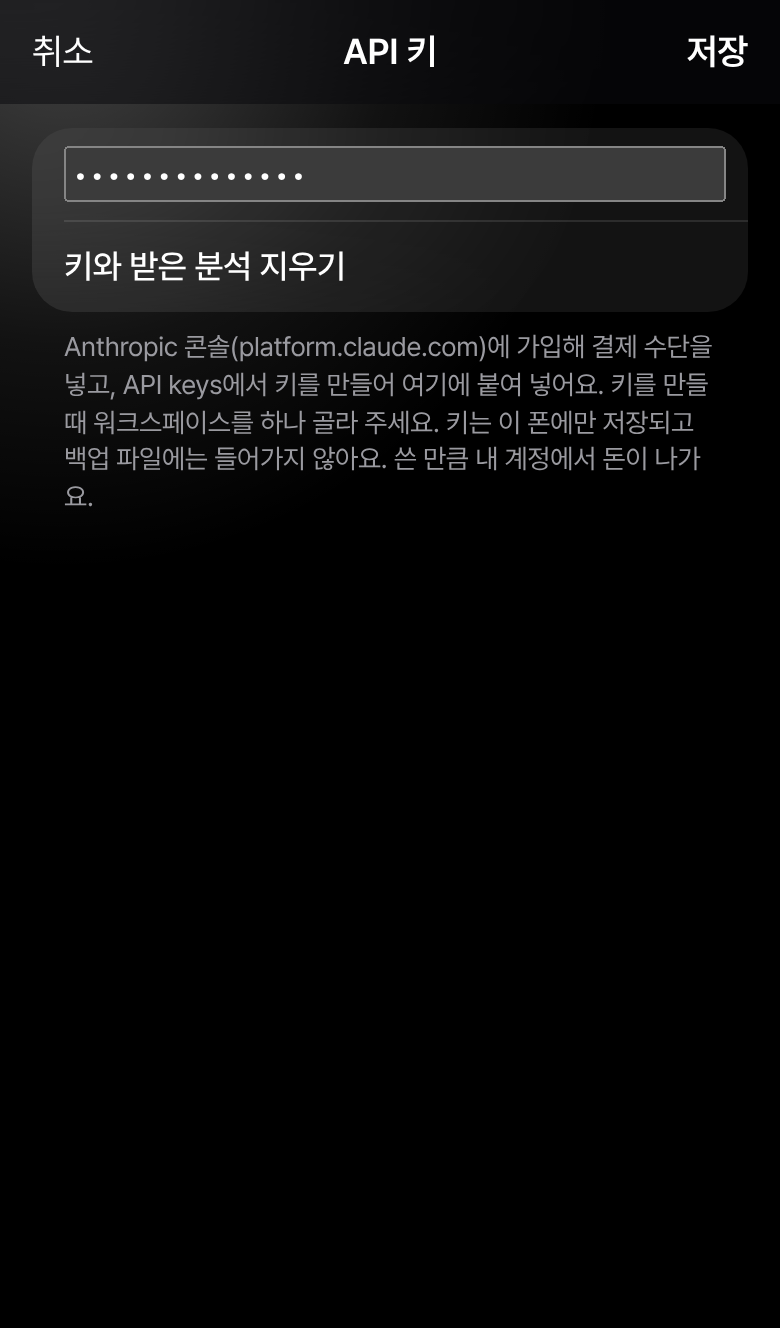
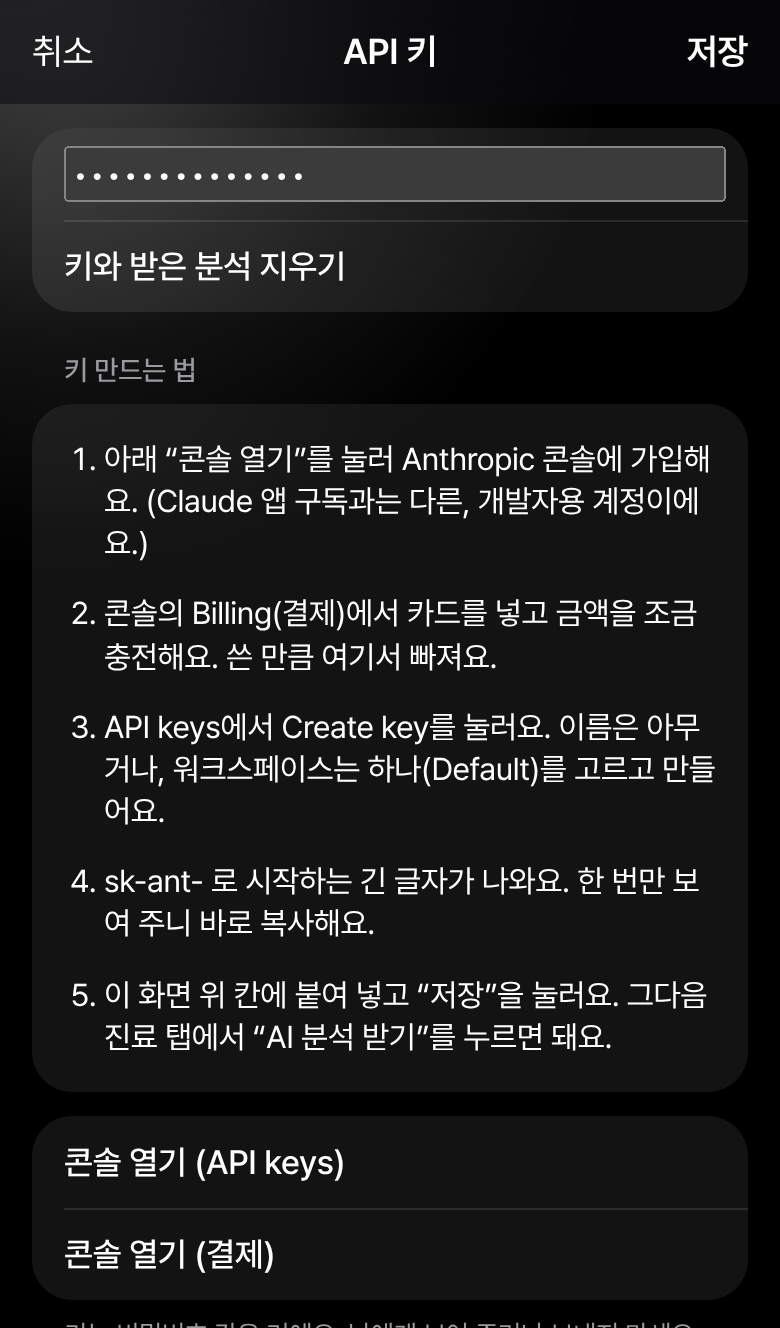
API 키 화면에 키 만드는 법을 순서대로 적고 콘솔로 가는 줄을 둠 (v112)
비개발자가 키를 어디서 어떻게 만드는지 알 수 없어서, 다섯 단계와
콘솔의 API keys · 결제 화면으로 바로 가는 줄을 넣었다.

Claude-Session: https://claude.ai/code/session_01Du4KAy7crrN67i73oW7iBF

diff --git a/mood/js/i18n.js b/mood/js/i18n.js
@@ -273,6 +273,15 @@ const DICT = {
   '취소': 'Cancel',
   '완료': 'Done',
   '설정': 'Settings',
+  '키 만드는 법': 'How to get a key',
+  '아래 “콘솔 열기”를 눌러 Anthropic 콘솔에 가입해요. (Claude 앱 구독과는 다른, 개발자용 계정이에요.)': 'Tap “Open Console” below and sign up for the Anthropic Console. (It is a developer account, separate from a Claude app subscription.)',
+  '콘솔의 Billing(결제)에서 카드를 넣고 금액을 조금 충전해요. 쓴 만큼 여기서 빠져요.': 'Under Billing in the Console, add a card and buy a small amount of credit. Usage is deducted from it.',
+  'API keys에서 Create key를 눌러요. 이름은 아무거나, 워크스페이스는 하나(Default)를 고르고 만들어요.': 'Under API keys, tap Create key. Any name works; choose one workspace (Default) and create it.',
+  'sk-ant- 로 시작하는 긴 글자가 나와요. 한 번만 보여 주니 바로 복사해요.': 'A long string starting with sk-ant- appears. It is shown only once, so copy it right away.',
+  '이 화면 위 칸에 붙여 넣고 “저장”을 눌러요. 그다음 진료 탭에서 “AI 분석 받기”를 누르면 돼요.': 'Paste it into the box above and tap “Save”. Then tap “Get AI analysis” on the Visit tab.',
+  '콘솔 열기 (API keys)': 'Open Console (API keys)',
+  '콘솔 열기 (결제)': 'Open Console (Billing)',
+  '키는 비밀번호 같은 거예요. 남에게 보여 주거나 보내지 마세요. 새어 나갔다 싶으면 콘솔에서 그 키를 지우면 돼요.': 'The key is like a password. Do not show or send it to anyone. If you think it leaked, delete that key in the Console.',
   '진료 때 말할 것에 더하기': 'Add to things to say',
   '진료 때 말할 것에 더했어요': 'Added to things to say',
   'AI가 근거로 단 자료': 'Sources the AI cited',
@@ -291,7 +300,6 @@ const DICT = {
   'AI는 의사가 아니에요. 정신과 진료 지식을 바탕으로 읽으라고 시켰을 뿐이라, 풀이는 진단이 아니고 틀릴 수 있어요. 진료 때 이야기할 거리로 써 주세요.': 'The AI is not a doctor. It was only told to read with psychiatric knowledge, so the reading is not a diagnosis and can be wrong. Use it as something to discuss at your appointment.',
   'API 키': 'API key',
   '키와 받은 분석 지우기': 'Remove the key and the saved analysis',
-  'Anthropic 콘솔(platform.claude.com)에 가입해 결제 수단을 넣고, API keys에서 키를 만들어 여기에 붙여 넣어요. 키를 만들 때 워크스페이스를 하나 골라 주세요.': 'Sign up at the Anthropic Console (platform.claude.com), add a payment method, create a key under API keys and paste it here. Pick one workspace when you create the key.',
   '키는 이 폰에만 저장되고 백업 파일에는 들어가지 않아요. 쓴 만큼 내 계정에서 돈이 나가요.': 'The key is stored only on this phone and is not included in backups. Usage is billed to your account.',
   '이 API 계정은 앱에서 바로 부를 수 없게 설정돼 있어요 (조직 설정).': 'This API account is set to block direct calls from apps (organization setting).',
   'API 키가 맞지 않아요. 키를 다시 확인해 주세요.': 'The API key is not valid. Please check it.',

diff --git a/mood/js/views/clinic.js b/mood/js/views/clinic.js
@@ -190,7 +190,19 @@ export function openAiKey() {
       <div class="li"><input type="password" id="ai-key" placeholder="sk-ant-…" autocomplete="off" autocapitalize="off" spellcheck="false" value="${esc(aiKey())}"></div>
       ${has ? `<button class="li add" data-act="aiKeyDel">${T('키와 받은 분석 지우기')}</button>` : ''}
     </section>
-    <p class="secnote">${T('Anthropic 콘솔(platform.claude.com)에 가입해 결제 수단을 넣고, API keys에서 키를 만들어 여기에 붙여 넣어요. 키를 만들 때 워크스페이스를 하나 골라 주세요.')}
+    <div class="sec">${T('키 만드는 법')}</div>
+    <section class="card"><ol class="steps">
+      <li>${T('아래 “콘솔 열기”를 눌러 Anthropic 콘솔에 가입해요. (Claude 앱 구독과는 다른, 개발자용 계정이에요.)')}</li>
+      <li>${T('콘솔의 Billing(결제)에서 카드를 넣고 금액을 조금 충전해요. 쓴 만큼 여기서 빠져요.')}</li>
+      <li>${T('API keys에서 Create key를 눌러요. 이름은 아무거나, 워크스페이스는 하나(Default)를 고르고 만들어요.')}</li>
+      <li>${T('sk-ant- 로 시작하는 긴 글자가 나와요. 한 번만 보여 주니 바로 복사해요.')}</li>
+      <li>${T('이 화면 위 칸에 붙여 넣고 “저장”을 눌러요. 그다음 진료 탭에서 “AI 분석 받기”를 누르면 돼요.')}</li>
+    </ol></section>
+    <section class="card list">
+      <a class="li add" href="https://platform.claude.com/settings/keys" target="_blank" rel="noopener noreferrer">${T('콘솔 열기 (API keys)')}</a>
+      <a class="li add" href="https://platform.claude.com/settings/billing" target="_blank" rel="noopener noreferrer">${T('콘솔 열기 (결제)')}</a>
+    </section>
+    <p class="secnote">${T('키는 비밀번호 같은 거예요. 남에게 보여 주거나 보내지 마세요. 새어 나갔다 싶으면 콘솔에서 그 키를 지우면 돼요.')}
       ${T('키는 이 폰에만 저장되고 백업 파일에는 들어가지 않아요. 쓴 만큼 내 계정에서 돈이 나가요.')}</p>
   </div>`;
   showSheet();

diff --git a/mood/tests/smoke.js b/mood/tests/smoke.js
@@ -584,7 +584,9 @@ function seed() {
     aiCalls.push({ headers: req.headers(), body: JSON.parse(req.postData()) });
     return route.fulfill({ status: aiReply.status, headers: { ...cors, 'content-type': 'application/json' }, body: JSON.stringify(aiReply.body) });
   });
-  await page.click('[data-act=aiKeyOpen]'); await page.fill('#ai-key', 'sk-ant-test-123'); await page.click('[data-act=aiKeySave]'); await page.waitForTimeout(300);
+  await page.click('[data-act=aiKeyOpen]');
+  check('API 키 화면에 만드는 법이 순서대로 적혀 있고 콘솔로 가는 줄이 있음', (await page.$$('#sheet .steps li')).length === 5 && (await page.getAttribute('#sheet a.li >> nth=0', 'href')) === 'https://platform.claude.com/settings/keys');
+  await page.fill('#ai-key', 'sk-ant-test-123'); await page.click('[data-act=aiKeySave]'); await page.waitForTimeout(300);
   check('키를 넣으면 AI 분석 단추가 생기고, 키는 기록과 따로 저장됨', !!(await page.$('[data-act=aiRun]')) && aiCalls.length === 0 && !JSON.stringify(await store()).includes('sk-ant-test')
     && (await page.evaluate(() => localStorage.getItem('tide.aikey'))) === 'sk-ant-test-123');
   await page.click('[data-act=aiRun]');

diff --git a/mood/sw.js b/mood/sw.js
@@ -1,7 +1,7 @@
 // 오프라인에서도 열리도록 앱 파일을 저장해 둔다.
 // 인터넷이 될 때는 항상 최신 파일을 먼저 받아오고, 안 될 때만 저장본을 쓴다.
 // 앱 파일을 바꿔서 올릴 때마다 CACHE 숫자를 하나 올린다. js/ 에 파일을 더하면 JS 목록에도 더한다.
-const CACHE = 'tide-v111';
+const CACHE = 'tide-v112';
 const JS = ['main', 'config', 'i18n', 'constants', 'store', 'dates', 'theme', 'icons', 'dom', 'state', 'meds', 'count', 'ai', 'analysis', 'sample', 'files', 'render', 'swipe', 'lock',
   'views/today', 'views/trend', 'views/sheet', 'views/record', 'views/settings', 'views/clinic', 'views/printout', 'views/welcome', 'views/notes'];
 const FILES = ['./', 'index.html', 'app.css', 'manifest.webmanifest',

diff --git a/mood/app.css b/mood/app.css
@@ -353,6 +353,7 @@ input[type=date] { border: 0; outline: none; background: var(--card2); color: va
 /* 긴 글이 들어가는 줄: 날짜는 글 위에 한 줄로 두고(옆에 두면 좁게 밀려 세로로 꺾인다), 위아래 여백을 넉넉히 */
 .lk.talk { display: block; flex: 1 1 auto; white-space: normal; overflow-wrap: anywhere; line-height: 1.45; }
 .li:has(> .talk) { padding-top: 14px; padding-bottom: 14px; }
+a.li { color: var(--text); text-decoration: none; }
 button.lk.talk { text-align: left; color: var(--text); font: inherit; }
 .talk.clamp .tx { display: -webkit-box; -webkit-box-orient: vertical; -webkit-line-clamp: 2; overflow: hidden; }
 .talk small { display: block; margin: 0 0 4px; font-size: calc(12px * var(--fs, 1.12)); }

diff --git a/mood/js/config.js b/mood/js/config.js
@@ -3,7 +3,7 @@
 export const KEY = 'tide.v1', OLD_KEY = 'harugyeol.v1';
 
 // 설정 화면 맨 아래에 보이는 번호. 올릴 때마다 sw.js의 CACHE 숫자와 같이 하나 올린다.
-export const VERSION = 111;
+export const VERSION = 112;
 
 // 방문 수 세기 (count.js): 신호를 받는 주소, 세는 배포 주소, 오늘 이미 보냈는지 적어 두는 열쇠
 export const COUNT_URL = 'https://tide-mark.goatcounter.com/count', COUNT_HOST = 'foreverclosemyeyes.github.io', COUNT_KEY = 'tide.count';
